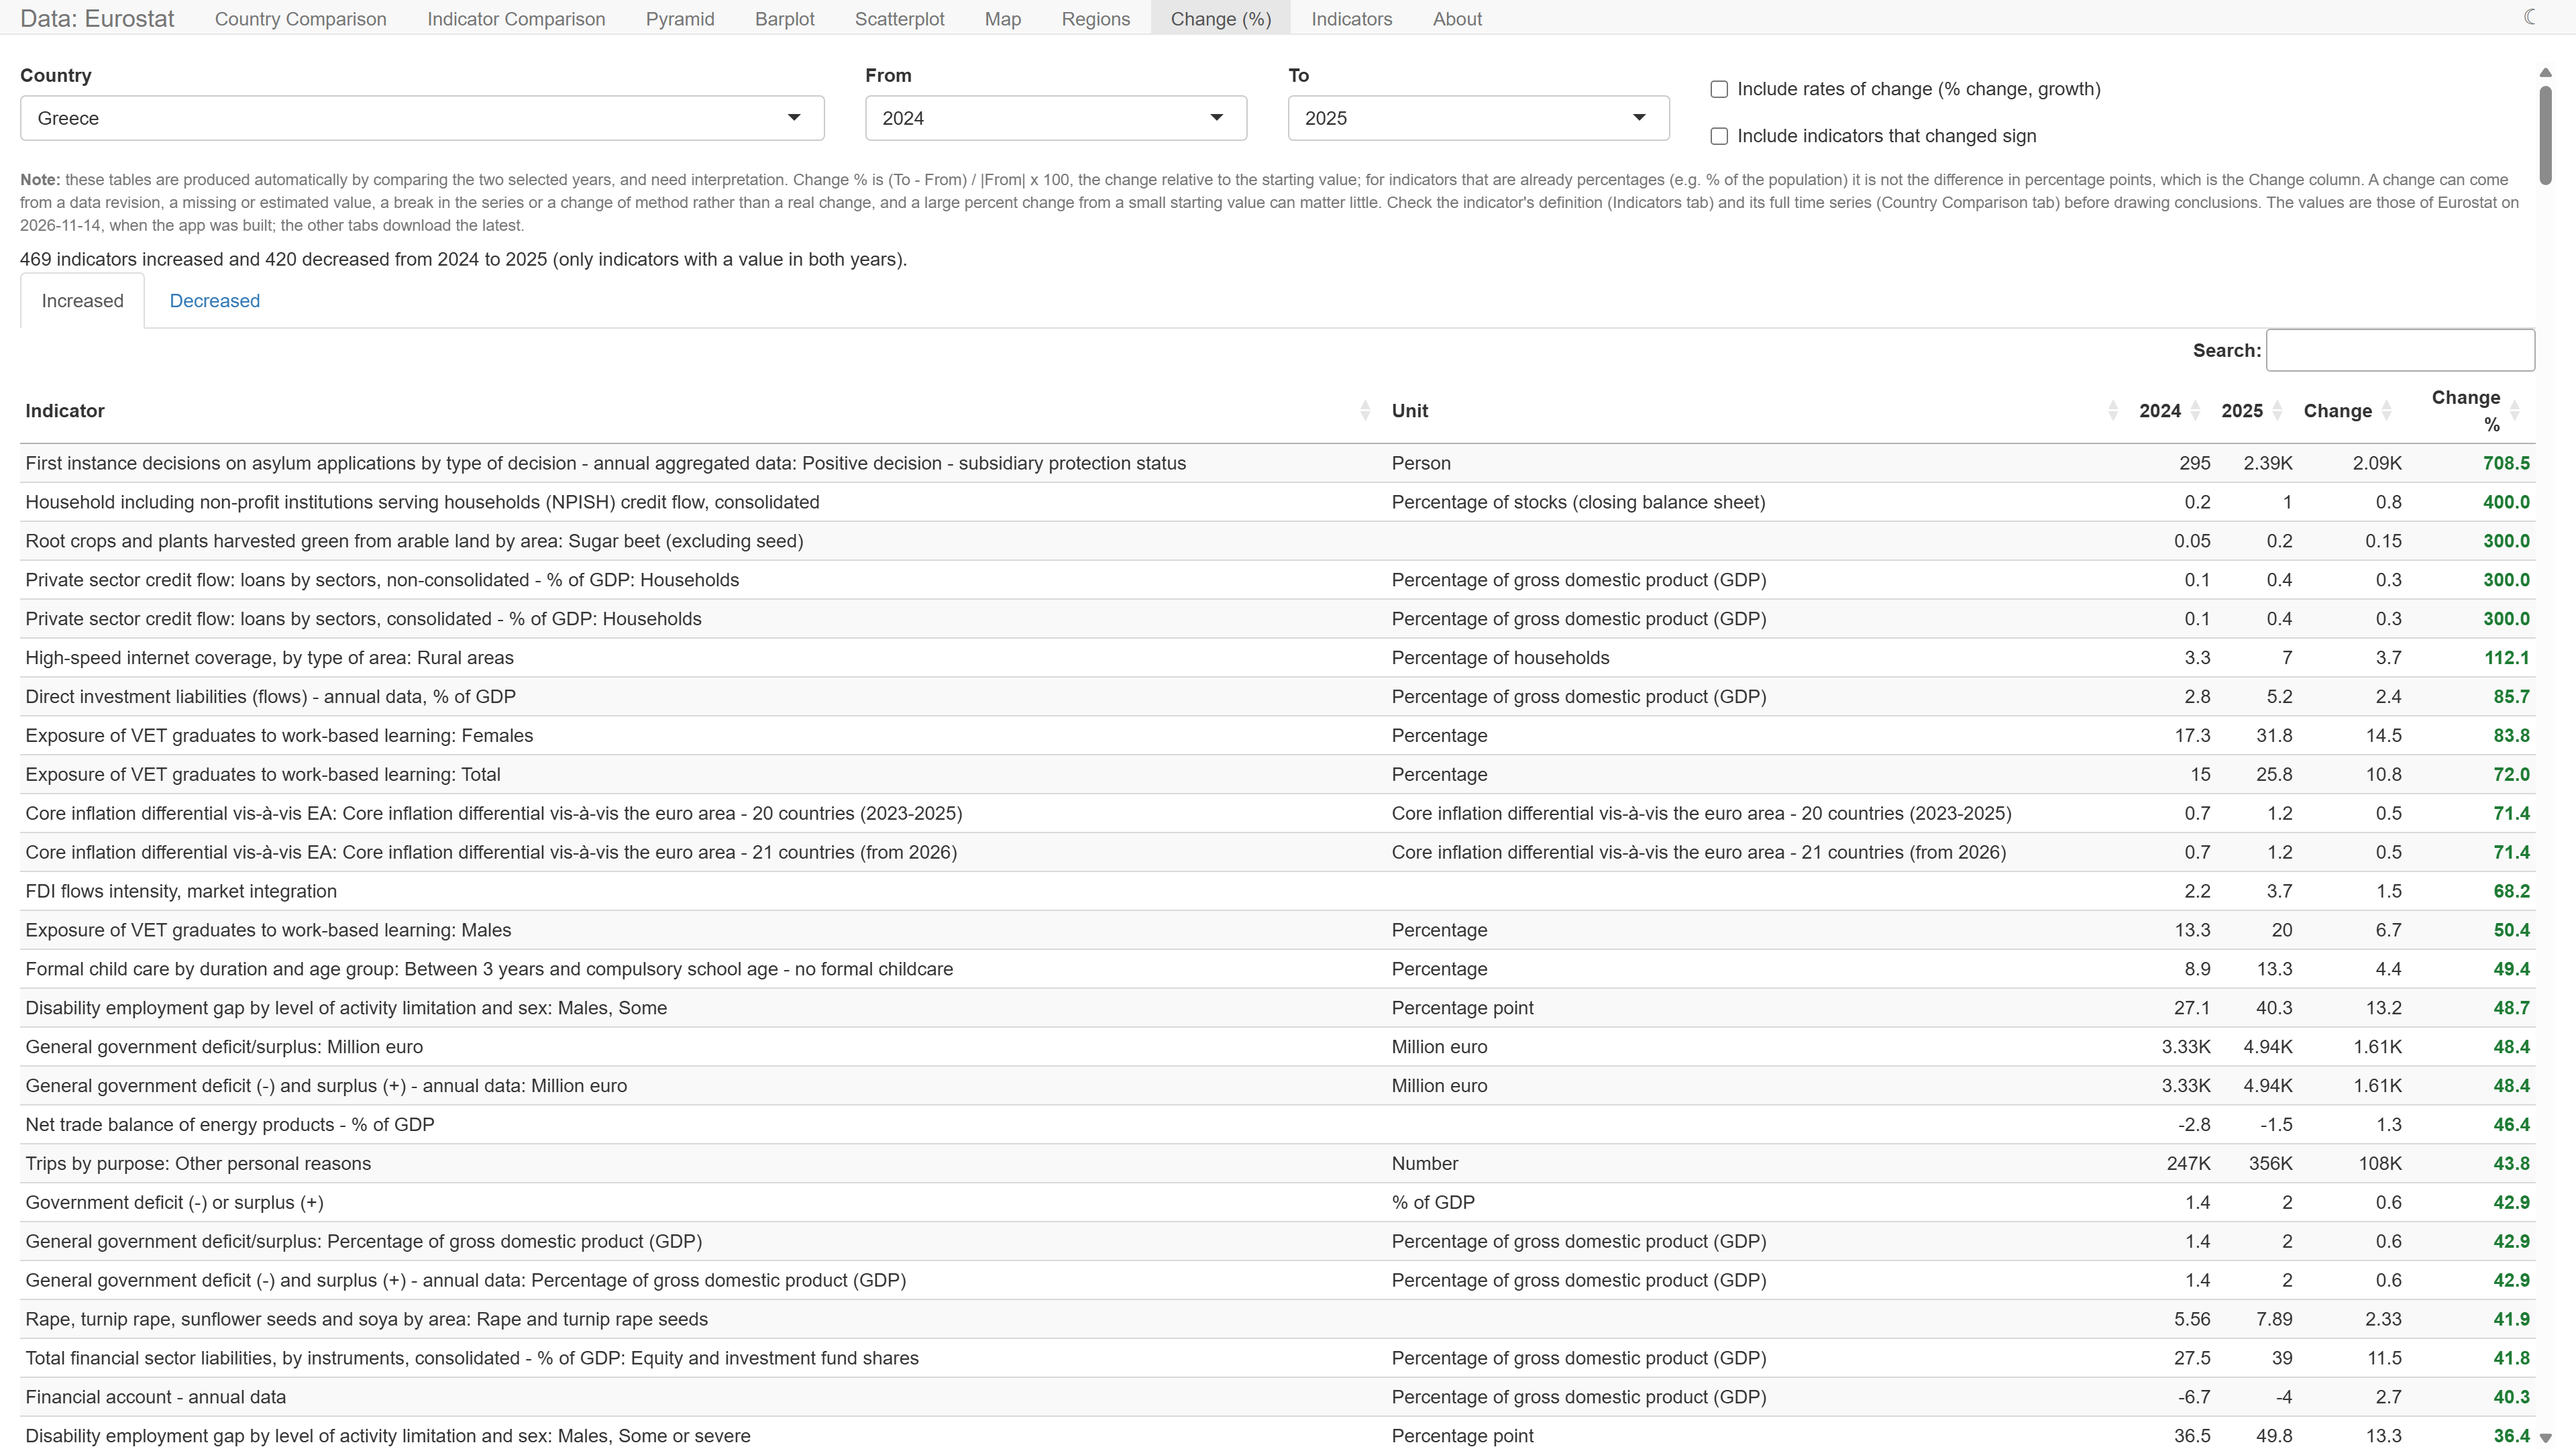
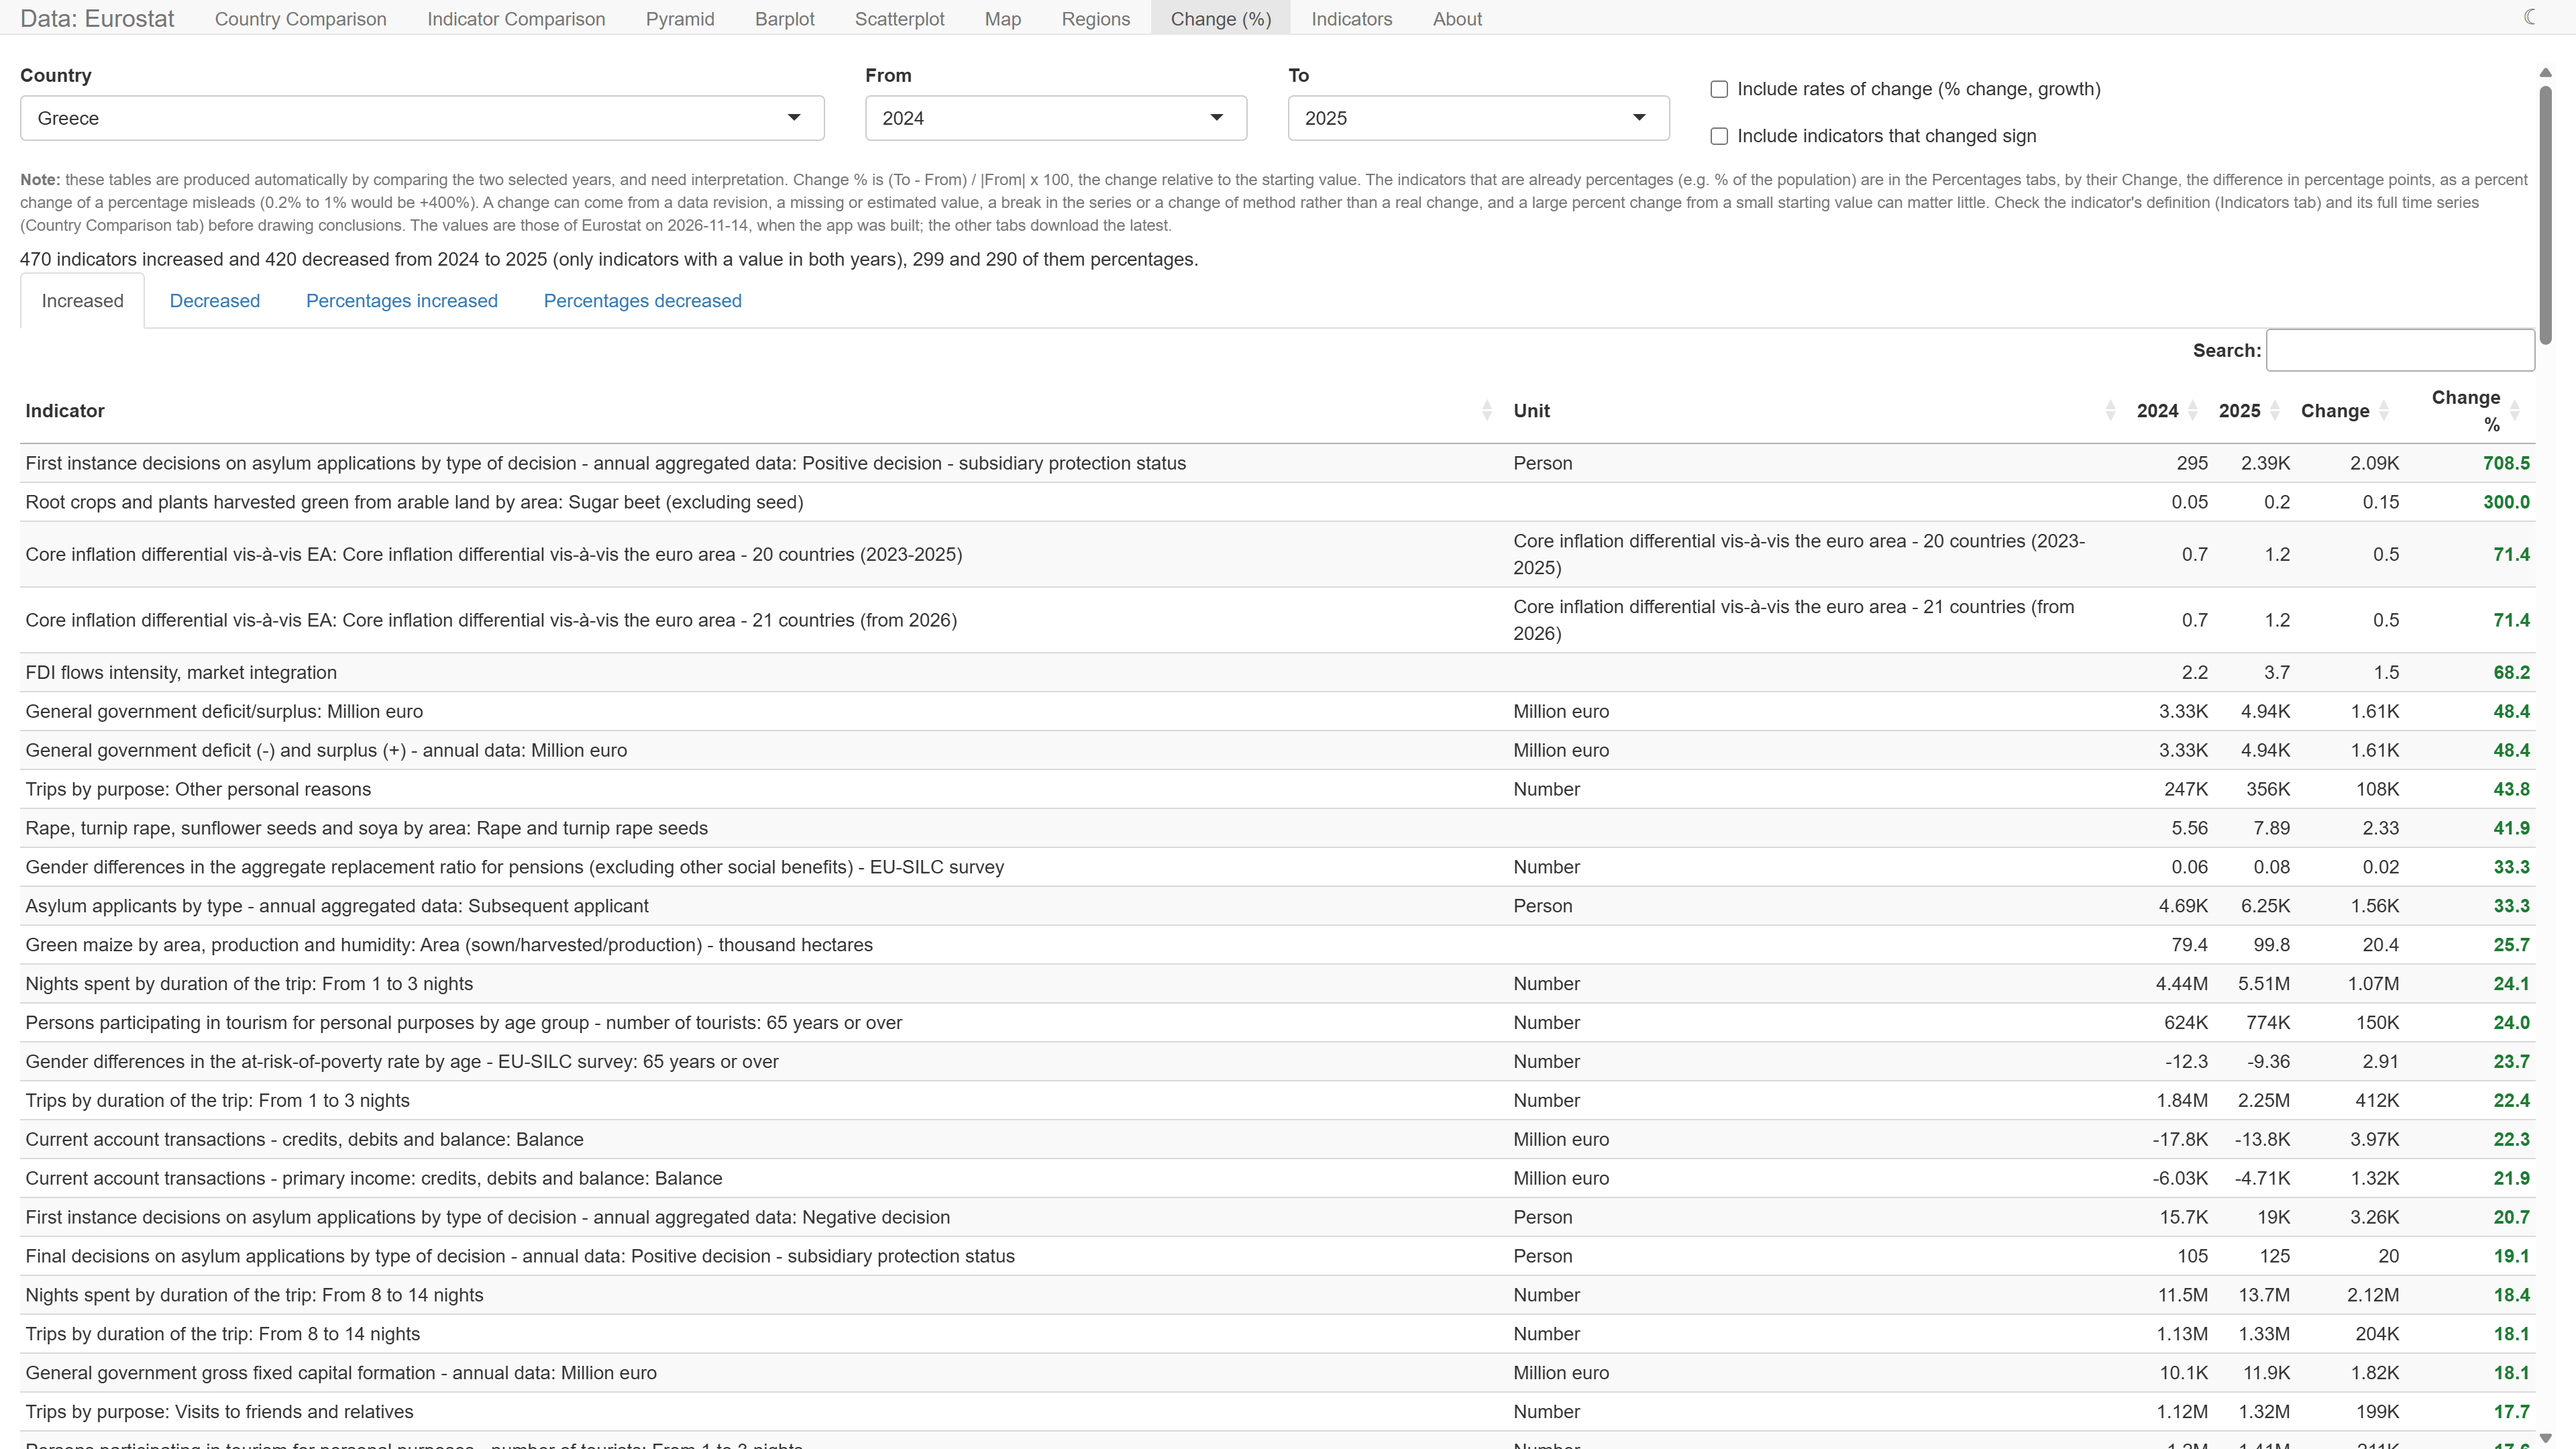
Separate percentage indicators by point change
Classify percentage indicators into dedicated increased and decreased tables sorted by percentage-point change, avoiding misleading relative percent changes. Update the Change (%) module, documentation, and tests.

diff --git a/README.md b/README.md
@@ -14,7 +14,7 @@ The tabs of golemworldbank, with two maps:
 - **Scatterplot**: the countries by two indicators, as bubbles as large as their population, animated by year, with the correlation of the two in each year
 - **Map**: the countries colored by an indicator, from red for the lowest through white to dark blue for the highest, animated by year
 - **Regions**: the regions of Europe (NUTS 2) colored in the same way by an indicator, such as GDP per inhabitant or unemployment, animated by year
-- **Change (%)**: the indicators of a country that rose and fell between two years, by how much
+- **Change (%)**: the indicators of a country that rose and fell between two years, by how much: by percent, and those that are percentages, such as the unemployment rate, by percentage points, in tabs of their own
 - **Indicators**: every indicator of the app, with its unit, definition and a link to its dataset at Eurostat
 - **About**: where the data comes from, the acknowledgments and the license
 
